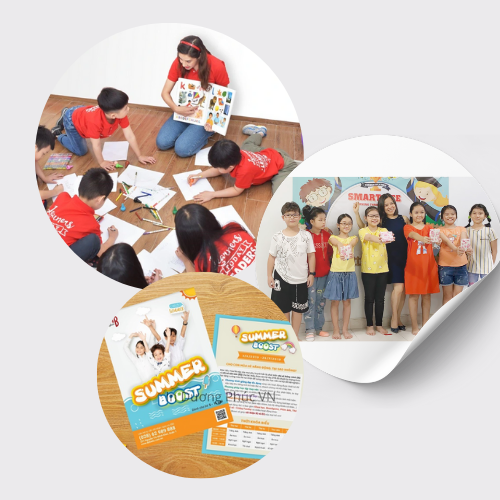
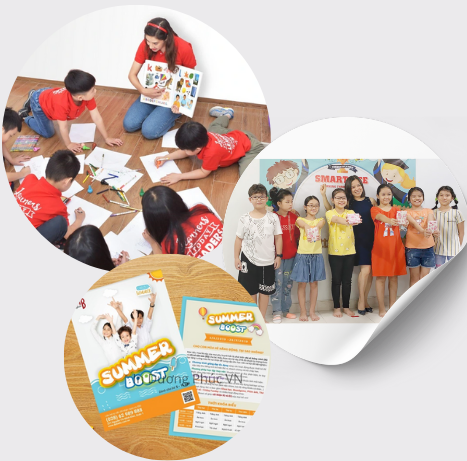
them responsive trang chu

diff --git a/Trang chu/index.html b/Trang chu/index.html
@@ -16,6 +16,7 @@
     <link rel="stylesheet" href="camnhan.css">
     <script src="camnhan.js" defer></script>
     <script src="index.js"></script>
+    <link rel="stylesheet" href="responsive.css">
     <link rel="stylesheet" href="popup.css">
     <style>
         /* Định dạng placeholder */
@@ -39,11 +40,9 @@
     </style>
 </head>
 <body>
-    
-    <!--Dòng chữ chạy chạy-->
     <!--Bắt đầu header-->
     <header>
-        <div class="container" style="background-color:#dcdcdc;">
+        <div class="container" style="background-color:#ecd8d8;">
             <div class="logo" style="display: flex;align-items: center;">
                 <a href="index.html"><img src="Image/logopng.png" alt="Logo" height="46px" width="46px"></a>
             </div>
@@ -59,10 +58,12 @@
                 <a  href="../dangnhap/dangnhap.html">Đăng nhập</a>
                 <a  href="../dangnhap/dangky.html">Đăng ký</a>
             </div>
+            <div class="hamburger">
+                <i class="fa fa-bars"></i>
+            </div>
         </div>
     </header>
 
-    
     <div class="menu container-fluid header " id="myHeader">
         <!--Bắt đầu menu-->
         <div class="container mt-0 " >
@@ -89,8 +90,6 @@
             </ul>
         </div>
     </div>
-
-    <!--breadcrumb-->
     <!--Slider dùng carousel trong bootstrap 5-->
     <div class="container-fluid">
         <!-- Carousel -->
@@ -126,7 +125,7 @@
     <div id="intro" class="container" style="display: flex;justify-content: center;align-items: center;">
         <div class="card mt-2">
             <div class="row ">
-                <div class="col-sm-8 col-md-8">
+                <div class="col-12 col-md-8">
                     <div class="content">
                         <h2 class="title">Chào mừng bạn đến với EngHouse!</h2>
                         <p>Trước khi chúng ta có cơ hội gặp gỡ, cảm ơn bạn đã sẵn lòng tìm hiểu tại đây. Đội ngũ <strong>EngHouse</strong> rất vui được cùng bạn chia sẻ những câu chuyện đằng sau thương hiệu đáng tự hào.</p>
@@ -136,10 +135,10 @@
                         <p>Bên cạnh <strong>60+ cơ sở</strong> luyện thi IELTS toàn quốc, <strong>EngHouse</strong> hiện cũng đang sở hữu hệ sinh thái học tập ONLINE: website, fanpage, group hỗ trợ học tập hoàn toàn miễn phí giúp các bạn học viên có thể tự ôn luyện tại nhà.</p>
                     </div>
                 </div>
-                <div class="col-sm-4 col-md-4">
+                <div class="col-12 col-md-4">
                     <div class="images">
                         <div class="circle big-circle">
-                            <img src="Image/anhgt.png" alt="Big Image" style="border-radius: 50%;"  >
+                            <img src="Image/anhgt.png" alt="Big Image" style="border-radius: 50%; height: 300px; width: 300px;"   >
                         </div>
                     </div>
                 </div>
@@ -386,17 +385,17 @@
     </div>
 
     <!--Popup-->
-    <div class="container">
-    <button id="giftButton" onclick="showPopup()">
-        <i class="fas fa-gift"></i> Nhấp để nhận quà!
-    </button>
-    <div id="overlay">    
-        <div id="popupContainer">
-            <img id="popupImage" src="Image/popup.png" alt="Popup Image" style="height: 600px;width: 600px;"/>
-            <button id="closeButton" onclick="closePopup()">Close</button>
-        </div>
-    </div> 
-</div>
+    <div class="container-fluid popup">
+        <button id="giftButton" onclick="showPopup()">
+            <i class="fas fa-gift"></i> Nhấp để nhận quà!
+        </button>
+        <div id="overlay">    
+            <div id="popupContainer">
+                <img id="popupImage" src="Image/popup.png" alt="Popup Image" style="height: 600px;width: 600px;"/>
+                <button id="closeButton" onclick="closePopup()">Close</button>
+            </div>
+        </div> 
+    </div>
 
     <script>
         function kiemTraDangKy() 
@@ -504,5 +503,11 @@
         }
     </script>
 
+<!--Script responsive-->
+    <script>
+        document.querySelector('.hamburger').addEventListener('click', function() {
+            document.querySelector('.menu').classList.toggle('show');
+        });
+    </script>
 </body>
 </html>

diff --git a/Trang chu/responsive.css b/Trang chu/responsive.css
@@ -1,0 +1,72 @@
+@media (max-width: 768px) {
+    #demo {
+        display: none;
+    }
+    .search{
+        display: none;
+    }
+    .menu1 {
+        display: none;
+    }
+    
+    .hamburger {
+        display: block;
+        cursor: pointer;
+        font-size: 24px;
+        margin: 10px;
+    }
+    .menu {
+        display: none;
+        flex-direction: column;
+        align-items: flex-start;
+    }
+    .menu.show {
+        display: flex;
+    }
+    .container-fluid.header {
+        justify-content: space-between;
+        align-items: center;
+    }
+    .popup {
+        position: relative;
+        text-align: center;
+        margin-top: 20px;
+    }
+    #giftButton {
+        font-size: 18px;
+        padding: 10px 20px;
+        cursor: pointer;
+    }
+    #overlay {
+        display: none;
+        position: fixed;
+        top: 0;
+        left: 0;
+        width: 100%;
+        height: 100%;
+        background-color: rgba(0, 0, 0, 0.5);
+        justify-content: center;
+        align-items: center;
+        z-index: 1000;
+    }
+    #popupContainer {
+        
+        padding: 20px;
+        border-radius: 10px;
+        text-align: center;
+        max-width: 90%;
+        max-height: 90%;
+        overflow: auto;
+    }
+    #popupImage {
+        width: 500px !important;
+        height: 500px !important;
+        
+    }
+    #closeButton {
+        margin-top: 20px;
+        padding: 10px 20px;
+        font-size: 10px;
+        cursor: pointer;
+    }
+}

diff --git a/TrangChuyenMuc/tienganhtreem/chitiet.html b/TrangChuyenMuc/tienganhtreem/chitiet.html
@@ -274,14 +274,6 @@
           </div>
         </div>
       </footer>
-      <div class="container-fluid btnback">
-        <a href="chuyenmuc.html" style="height: 40px; width: 100px;" >
-            <span class="material-symbols-outlined" style="line-height: 40px;">
-                arrow_back
-            </span>
-            Quay lại
-        </a>
-      </div>
       <script>
         // When the user scrolls the page, execute myFunction
         window.onscroll = function() {myFunction()};

diff --git a/Trang chu/index.css b/Trang chu/index.css
@@ -2,7 +2,9 @@ body{
     margin: 0;
     font-family:Arial, Helvetica, sans-serif ;
 }
-
+.hamburger{
+    display: none;
+}
 .card {
     box-shadow: 0 8px 16px rgba(0, 0, 0, 0.2);
     border-radius: 15px;
@@ -36,7 +38,7 @@ body{
 }
 .menu{
     height: 46px;
-    background-color: wheat;
+    background-color: #e88585;
     left: 0;
     right: 0;
 }
@@ -220,8 +222,8 @@ button#dangky:hover {
 
 
 header {
-    
-    padding: 10px 0;
+    margin: 0 ;
+    padding:0 ;
 }
 
 header .container {

diff --git a/TrangChuyenMuc/tienganhtreem/chitiet.css b/TrangChuyenMuc/tienganhtreem/chitiet.css
@@ -172,4 +172,3 @@ section .btn-primary {
     margin-bottom: 20px;
     margin-left: 50px;
 }
-
